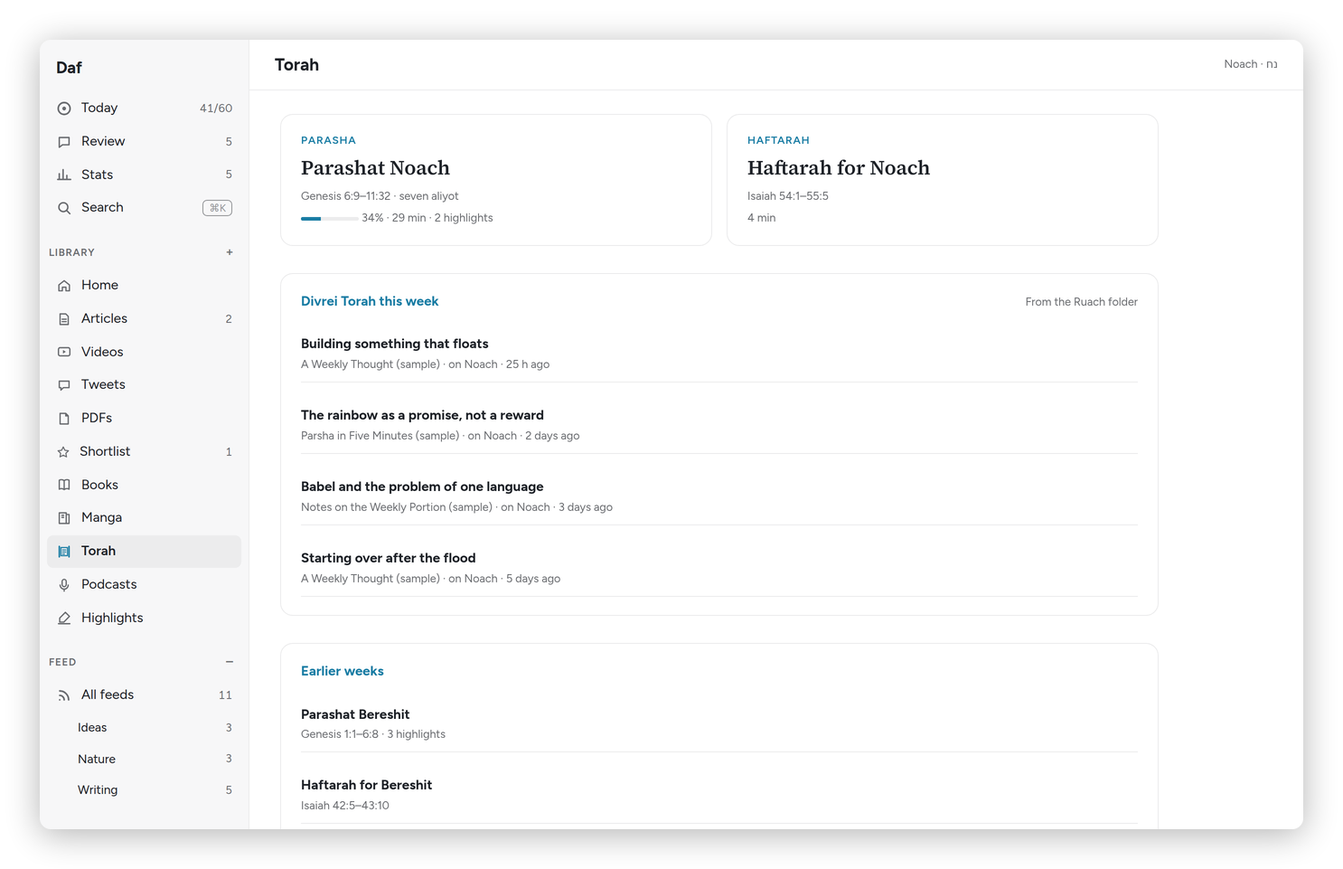
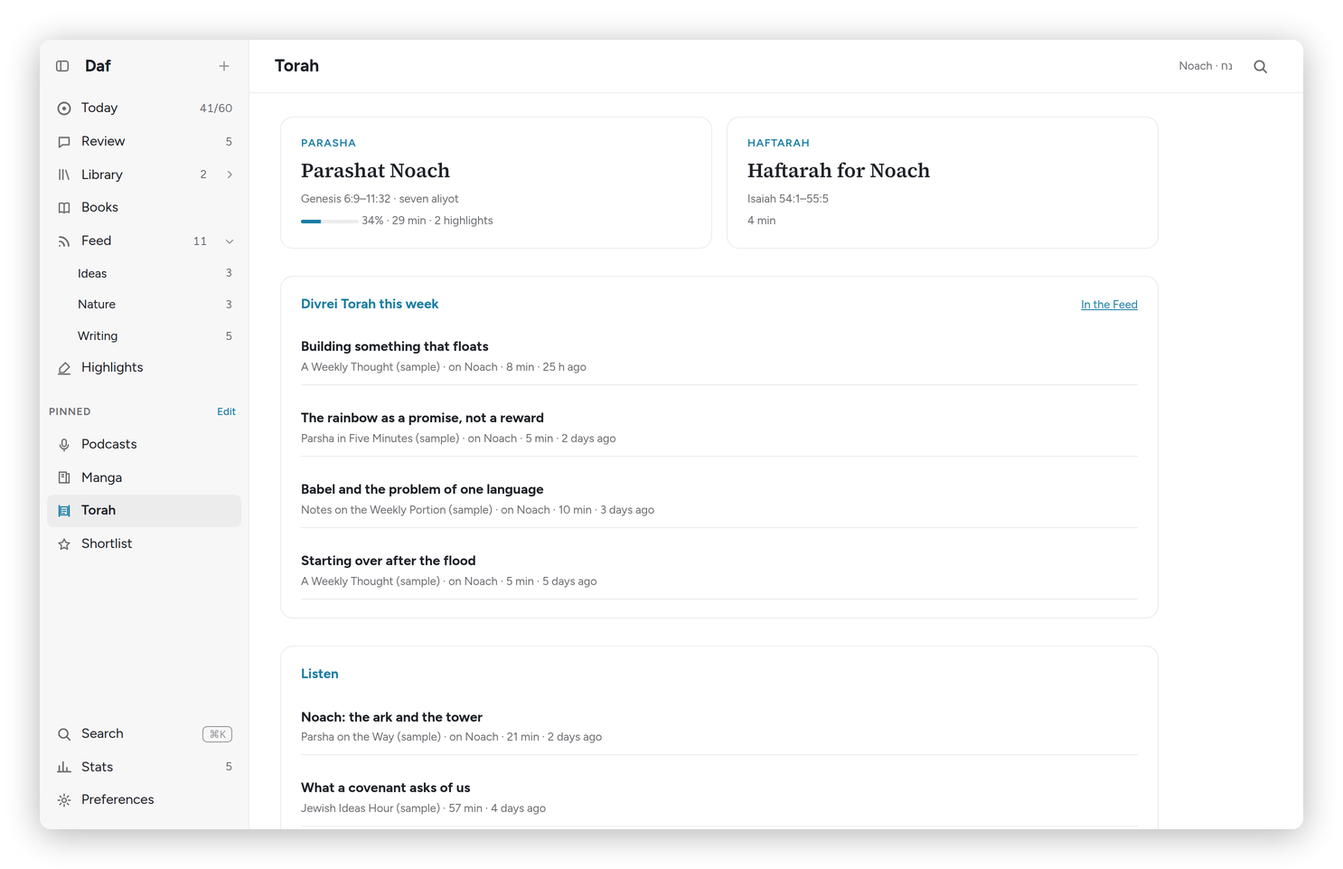
Torah: the week's divrei Torah come from a "Divrei Torah" folder of the Feed instead of Ruach, with a Listen group for its episodes
- torah.divrei reads the folder by when a post was published, not when Daf took it in, so a feed just
  followed doesn't count its whole month as this week. A post is on the parasha when its title or its
  address names it (rabbisacks.org/covenant-conversation/chayei-sarah/...). On the parasha first, a
  few from each source, then each source's newest other one.
- The page: Divrei Torah this week with In the Feed, and Listen for the episodes, which open in Daf's
  player. The caption "From the Ruach folder" is gone. The search finds them by author too.
- /api/torah: divrei, listen and folder; ruach stays as the old name for the Mac app until it's
  rebuilt with the new Pages.swift.
- daf feeds-add on a feed already followed moves it with its posts (subscribe alone left them behind),
  and --full turns on Always load the full article.
- The Torah guide says what's in the folder; OPERATIONS, the Mac README, the taste's sample data and
  the docs screenshot follow.

diff --git a/web/torah.js b/web/torah.js
@@ -9,12 +9,17 @@ function weekCard(d){
     '<span class="tiny mute">' + (d.progress ? C.bar(d.progress) + ' ' + Math.round(d.progress) + '% · ' : '') + mins(d.words) + (d.highlights ? ' · ' + d.highlights + ' highlight' + (d.highlights === 1 ? '' : 's') : '') + '</span></a>';
 }
 
-const ruachRow = (r, t) => '<a class="nrow tr" href="#read/' + encodeURIComponent(r.id) + '"' + (r.status === 'seen' ? ' data-seen' : '') + '><b' + (/[֐-׿]/.test(r.title || '') ? ' dir="rtl" lang="he"' : '') + '>' + esc(r.title || 'Untitled') + '</b><span class="mute tiny">' + esc(r.source || '') + (r.this_parasha ? ' · on ' + esc(t.parasha.name) : '') + ' · ' + ago(r.added) + '</span></a>';
+// A post or an episode from the Divrei Torah folder; an episode opens in Daf's player.
+const postRow = (r, t) => {
+  const len = r.kind === 'podcast' ? (r.duration ? Math.round(r.duration / 60) + ' min' : '') : (r.words >= 200 ? mins(r.words) : '');
+  return '<a class="nrow tr" href="#read/' + encodeURIComponent(r.id) + '"' + (r.status === 'seen' ? ' data-seen' : '') + '><b' + (/[֐-׿]/.test(r.title || '') ? ' dir="rtl" lang="he"' : '') + '>' + esc(r.title || 'Untitled') + '</b>' +
+    '<span class="mute tiny">' + [esc(r.source || ''), r.this_parasha && t.parasha ? 'on ' + esc(t.parasha.name) : '', len, ago(r.when || r.added)].filter(Boolean).join(' · ') + '</span></a>';
+};
 const essayRow = e => '<button class="nrow tr essay" data-essay="' + esc(e.path) + '"><b>' + esc(e.title) + '</b><span class="mute tiny">' + esc(e.author || '') + (e.words ? ' · ' + mins(e.words) : '') + (e.progress ? ' · ' + Math.round(e.progress) + '% read' : '') + (e.highlights ? ' · ' + e.highlights + ' highlight' + (e.highlights === 1 ? '' : 's') : '') + '</span></button>';
 const earlierRow = d => '<a class="nrow tr" href="#read/' + encodeURIComponent(d.id) + '"><b>' + esc(d.title) + '</b><span class="mute tiny">' + esc(d.summary || '') + (d.highlights ? ' · ' + d.highlights + ' highlights' : '') + '</span></a>';
 
-// The search in the bar: the week's readings, the divrei Torah, the essays and the earlier weeks, by
-// their titles and what's under them, on the page.
+// The search in the bar: the week's readings, the divrei Torah and episodes, the essays and the earlier
+// weeks, by their titles and what's under them, on the page.
 let shelf = null;
 C.views.torah = async () => {
   $('#main').innerHTML = '<div class="top"><h1>Torah</h1><span class="spacer"></span><span class="mute tiny" id="tsub"></span>' + C.Find.html('torah', 'Search Torah', draw) + '</div><div class="page" id="tpage"><span class="mute">Loading…</span></div>';
@@ -26,22 +31,25 @@ function draw(){
   const t0 = shelf, page = $('#tpage'); if (!t0 || !page) return;
   const q = C.Find.q('torah'), m = C.Find.match;
   if (q) {
-    const t = Object.assign({}, t0, { week: t0.week.filter(d => m(q, d.title, d.summary, d.author)), ruach: t0.ruach.filter(r => m(q, r.title, r.source)),
+    const t = Object.assign({}, t0, { week: t0.week.filter(d => m(q, d.title, d.summary, d.author)), divrei: (t0.divrei || []).filter(r => m(q, r.title, r.source, r.author)),
+      listen: (t0.listen || []).filter(r => m(q, r.title, r.source, r.author)),
       essays: (t0.essays || []).filter(e => m(q, e.title, e.author, e.series)), earlier: t0.earlier.filter(d => m(q, d.title, d.summary)) });
     page.innerHTML = (t.week.length ? '<div class="tweek">' + t.week.map(weekCard).join('') + '</div>' : '') +
-      (t.ruach.length ? '<section class="card"><div class="cardh"><h2>Divrei Torah this week</h2></div>' + t.ruach.map(r => ruachRow(r, t)).join('') + '</section>' : '') +
+      (t.divrei.length ? '<section class="card"><div class="cardh"><h2>Divrei Torah this week</h2></div>' + t.divrei.map(r => postRow(r, t)).join('') + '</section>' : '') +
+      (t.listen.length ? '<section class="card"><h2>Listen</h2>' + t.listen.map(r => postRow(r, t)).join('') + '</section>' : '') +
       (t.essays.length ? '<section class="card"><div class="cardh"><h2>From your vault</h2></div>' + t.essays.map(essayRow).join('') + '</section>' : '') +
       (t.earlier.length ? '<section class="card"><h2>Earlier weeks</h2>' + t.earlier.map(earlierRow).join('') + '</section>' : '') +
-      (t.week.length + t.ruach.length + t.essays.length + t.earlier.length ? '' : C.Find.none());
+      (t.week.length + t.divrei.length + t.listen.length + t.essays.length + t.earlier.length ? '' : C.Find.none());
     return;
   }
   const t = t0;
   let h = '';
   h += t.week.length ? '<div class="tweek">' + t.week.map(weekCard).join('') + '</div>'
     : '<section class="card"><h2>This week’s reading isn’t here yet</h2><p class="mute" style="margin:0">Sefaria didn’t answer. Daf tries again on the next sync.</p></section>';
-  h += '<section class="card"><div class="cardh"><h2>Divrei Torah this week</h2><span class="mute tiny">From the Ruach folder</span></div>' +
-    (t.ruach.length ? t.ruach.map(r => ruachRow(r, t)).join('')
-      : '<p class="mute" style="margin:0">Nothing new in Ruach this week.</p>') + '</section>';
+  const divrei = t.divrei || [], listen = t.listen || [];
+  h += '<section class="card"><div class="cardh"><h2>Divrei Torah this week</h2>' + (t.folder ? '<a class="tiny" href="#feed/' + encodeURIComponent(t.folder) + '">In the Feed</a>' : '') + '</div>' +
+    (divrei.length ? divrei.map(r => postRow(r, t)).join('') : '<p class="mute" style="margin:0">Nothing new this week.</p>') + '</section>';
+  if (listen.length) h += '<section class="card"><h2>Listen</h2>' + listen.map(r => postRow(r, t)).join('') + '</section>';
   if (t.essays && t.essays.length) h += '<section class="card"><div class="cardh"><h2>From your vault</h2><span class="mute tiny">' + esc(t.essays[0].series || '') + ' on ' + esc(t.parasha ? t.parasha.name : '') + '</span></div>' +
     t.essays.map(essayRow).join('') +
     '<span class="mute tiny">Opens in Daf, so the time counts. Highlights go into the same note.</span></section>';

diff --git a/mac-native/Sources/DafNative/Pages.swift b/mac-native/Sources/DafNative/Pages.swift
@@ -224,7 +224,7 @@ struct SourcesView: View {
     }
 }
 
-/// Torah: this week's parasha and haftarah, the readings to open, Ruach, and earlier weeks.
+/// Torah: this week's parasha and haftarah, the readings to open, the Divrei Torah folder's posts and episodes, and earlier weeks.
 struct TorahList: View {
     @Environment(AppModel.self) private var model
 
@@ -247,12 +247,12 @@ struct TorahList: View {
                         rows("This week", t.a("week"))
                     }
                     Heading("Divrei Torah this week")
-                    if t.a("ruach").isEmpty {
-                        Text("Nothing new in Ruach this week.").font(.callout).foregroundStyle(.secondary)
+                    if t.a("divrei").isEmpty {
+                        Text("Nothing new this week.").font(.callout).foregroundStyle(.secondary)
                     } else {
-                        Text("From the Ruach folder").font(.caption).foregroundStyle(.secondary)
-                        SelectableRows(items: t.a("ruach").map(Item.init))
+                        SelectableRows(items: t.a("divrei").map(Item.init))
                     }
+                    rows("Listen", t.a("listen"))
                     let essays = AppModel.essays(t)
                     if !essays.isEmpty {
                         Heading("From your vault")

diff --git a/mac-native/Sources/DafNative/Model.swift b/mac-native/Sources/DafNative/Model.swift
@@ -366,7 +366,7 @@ final class AppModel {
             case .torah:
                 let t = try await API.shared.json("/api/torah")
                 torah = t
-                items = (t.a("week") + t.a("ruach") + Self.essays(t) + t.a("earlier")).map(Item.init)
+                items = (t.a("week") + t.a("divrei") + t.a("listen") + Self.essays(t) + t.a("earlier")).map(Item.init)
             case .feed(let cat):
                 if sources == nil { await loadSources() }
                 items = try await docs("feed", tab: feedTab, arg: cat, sort: sortFeed, filter: listFilter.dict)

diff --git a/taste/app/demo.js b/taste/app/demo.js
@@ -944,7 +944,7 @@ on('GET', '/api/feed/sources', () => {
 on('GET', '/api/torah', () => {
   if (!SEED.torah) throw err(404, NOT_HERE);
   const t = clone(SEED.torah), now = nowSec();
-  t.ruach.forEach(r => { r.added = now - (r.days || 0) * 86400 - 3600; r.status = 'unseen'; });
+  t.divrei.concat(t.listen || []).forEach(r => { r.when = r.added = now - (r.days || 0) * 86400 - 3600; r.status = 'unseen'; });
   return Object.assign({ essays: [] }, t);
 });
 on('GET', '/api/hardcover/book/:id', p => {

diff --git a/daf/torah.py b/daf/torah.py
@@ -3,7 +3,8 @@
 Each reading is a doc (where_ 'torah', kind 'torah') whose blocks are verses: Hebrew
 (nikud kept, cantillation dropped) beside English, with aliyah headings. Highlights and
 notes work as on any doc and go to Reference/torah in the vault. Time spent reading here
-counts like an article. The Ruach feed folder in FreshRSS supplies the week's divrei Torah.
+counts like an article. The Feed's "Divrei Torah" folder supplies the week's divrei Torah, the
+posts on this parasha first, and its podcast episodes make a Listen group of their own.
 """
 import hashlib
 import html
@@ -21,6 +22,8 @@ log = logging.getLogger(__name__)
 API = "https://www.sefaria.org/api"
 ALIYOT = ["Rishon", "Sheni", "Shlishi", "Revi'i", "Chamishi", "Shishi", "Shvi'i", "Maftir"]
 CANTILLATION = re.compile("[֑-ֽ֯׀׃׆]")
+FOLDER = "Divrei Torah"                  # the Feed folder the Torah page reads
+PER_SOURCE = {"read": 3, "listen": 2}   # on this parasha; of the rest, each source's newest
 
 
 def _get(url, timeout=20):
@@ -187,6 +190,44 @@ def mentions(title, name, he):
     return False
 
 
+def on_parasha(post, par):
+    """Does a post name this week's parasha, in its title or its address (rabbisacks.org/…/chayei-sarah/…)?"""
+    if not par or not par.get("name"):
+        return False
+    if mentions(post.get("title"), par["name"], par.get("he")):
+        return True
+    path = urllib.parse.urlparse(post.get("url") or "").path
+    return mentions(re.sub(r"[/_.]+", " ", path), par["name"], None)
+
+
+def divrei(conn, par, days=10):
+    """The week's posts and episodes from the Divrei Torah folder: (to read, to listen to). Those on
+    this parasha come first, a few from each source, then each source's newest other one, so a site
+    that posts every day can't fill the week. The Feed has the rest."""
+    since = int(time.time()) - days * 86400
+    rows = [dict(r) for r in conn.execute(           # an episode's length, once Daf knows it (episodes.py)
+        "SELECT d.id, d.kind, d.title, d.author, d.source, d.url, d.published, d.added, d.status, d.words, "
+        "COALESCE(d.duration, g.duration) AS duration FROM docs d LEFT JOIN gp_episodes g ON g.url = d.enclosure "
+        "WHERE d.where_ = 'feed' AND d.category = ? AND d.status != 'deleted' AND COALESCE(d.published, d.added) > ? "
+        "ORDER BY COALESCE(d.published, d.added) DESC LIMIT 300", (FOLDER, since))]
+    for r in rows:
+        r["this_parasha"] = on_parasha(r, par)
+        r["when"] = r["published"] or r["added"]
+    # a batch posted at once (Chabad's week) goes longest first
+    rows.sort(key=lambda r: (not r["this_parasha"], -(r["when"] or 0), -(r["words"] or 0)))
+    out, per, other = {"read": [], "listen": []}, {}, set()
+    for r in rows:
+        group = "listen" if r["kind"] == "podcast" else "read"
+        key = (group, r["source"])
+        if per.get(key, 0) >= PER_SOURCE[group] or (not r["this_parasha"] and key in other):
+            continue
+        per[key] = per.get(key, 0) + 1
+        if not r["this_parasha"]:
+            other.add(key)
+        out[group].append(r)
+    return out["read"][:18], out["listen"][:6]
+
+
 def _front(text):
     m = re.match(r"^---\n(.*?)\n---\n", text, re.S)
     out = {}
@@ -263,13 +304,7 @@ def shelf(conn):
                 "progress": r["progress"], "highlights": hl, "category": r["category"]}
     week = [card(r) for i in ids for r in conn.execute("SELECT * FROM docs WHERE id = ?", (i,))]
     par = cal.get("Parashat Hashavua") or {}
-    since = int(time.time()) - 10 * 86400
-    ruach = [dict(r) for r in conn.execute(
-        "SELECT id, title, author, source, added, status, words FROM docs WHERE where_ = 'feed' AND category = 'Ruach' AND status != 'deleted' AND added > ? "
-        "ORDER BY added DESC LIMIT 40", (since,))]
-    for r in ruach:
-        r["this_parasha"] = bool(par) and mentions(r["title"], par.get("name"), par.get("he"))
-    ruach.sort(key=lambda r: (not r["this_parasha"], -(r["added"] or 0)))
+    read, listen = divrei(conn, par)
     earlier = [card(r) for r in conn.execute(
         "SELECT * FROM docs WHERE where_ = 'torah' AND id LIKE 'sef:%%' AND id NOT IN (%s) ORDER BY published DESC LIMIT 30" % ",".join("?" * len(ids)), ids)] if ids else \
         [card(r) for r in conn.execute("SELECT * FROM docs WHERE where_ = 'torah' AND id LIKE 'sef:%' ORDER BY published DESC LIMIT 30")]
@@ -279,4 +314,5 @@ def shelf(conn):
         log.warning("torah essays: %s", e)
         mine = []
     return {"parasha": cal.get("Parashat Hashavua"), "haftarah": cal.get("Haftarah"), "week": week, "essays": mine,
-            "ruach": ruach[:12], "earlier": earlier}
+            "divrei": read, "listen": listen, "folder": FOLDER, "earlier": earlier,
+            "ruach": read}          # the old name, for a Mac app built before it read "divrei"

diff --git a/daf/cli.py b/daf/cli.py
@@ -17,7 +17,8 @@
     daf jobs                   transcripts and clips waiting or done
     daf vault-backfill [--dry-run DIR]   rewrite Daf's article notes in the vault the current way
     daf feeds-list [--json]    the feeds the Feed follows
-    daf feeds-add URL [--folder F] [--title T]   follow a feed (the Substack sync, the security watch)
+    daf feeds-add URL [--folder F] [--title T] [--full]   follow a feed (the Substack sync, the security watch),
+                               or move one already followed to F, its posts with it
     daf feeds-remove URL ...   unfollow them
 """
 import argparse
@@ -341,7 +342,9 @@ def cmd_feeds_list(a):
 
 
 def cmd_feeds_add(a):
-    """Follow a feed in a folder (the Substack sync, the security watch); --title names it."""
+    """Follow a feed in a folder (the Substack sync, the security watch); --title names it, --full has
+    Daf load each post's whole article. A feed already followed moves to the folder, and so do its posts
+    (reader.edit_feed), so the Feed and the Torah page find them there."""
     from . import reader
     from .sources import feedsrc
     src = feedsrc.get()
@@ -352,9 +355,10 @@ def cmd_feeds_add(a):
             print(f"Couldn't follow {a.url}: {e}", file=sys.stderr)
             return 1
         f = next((x for x in src.subscriptions(conn=conn) if x["url"] == a.url or x["title"] == title), None)
-        if a.title and f and a.title != f["title"]:
-            reader.edit_feed(conn, f["id"], a.title)
-            title = a.title
+        rename = a.title if a.title and f and a.title != f["title"] else None
+        if f and (rename or a.folder or a.full):
+            reader.edit_feed(conn, f["id"], rename, a.folder or None, full=True if a.full else None)
+            title = rename or title
     print(f"Following {title}" + (f" in {a.folder}" if a.folder else ""))
     return 0
 
@@ -413,7 +417,8 @@ def main(argv=None):
     x = sub.add_parser("karakeep-import", help="Daf takes the Library over from Karakeep, once"); x.add_argument("--again", action="store_true"); x.set_defaults(f=cmd_karakeep_import)
     x = sub.add_parser("feeds-import", help="Daf reads the feeds itself from now on, FreshRSS's list brought over"); x.add_argument("--again", action="store_true"); x.set_defaults(f=cmd_feeds_import)
     x = sub.add_parser("feeds-list", help="the feeds the Feed follows"); x.add_argument("--json", action="store_true"); x.set_defaults(f=cmd_feeds_list)
-    x = sub.add_parser("feeds-add", help="follow a feed"); x.add_argument("url"); x.add_argument("--folder", default=""); x.add_argument("--title")
+    x = sub.add_parser("feeds-add", help="follow a feed, or move one to a folder"); x.add_argument("url"); x.add_argument("--folder", default=""); x.add_argument("--title")
+    x.add_argument("--full", action="store_true", help="always load the whole article")
     x.set_defaults(f=cmd_feeds_add)
     x = sub.add_parser("feeds-remove", help="unfollow feeds"); x.add_argument("urls", nargs="+"); x.set_defaults(f=cmd_feeds_remove)
     x = sub.add_parser("podcasts-import", help="subscriptions and listening from Nextcloud's GPodder Sync app"); x.add_argument("--user", default="admin"); x.set_defaults(f=cmd_podcasts_import)

diff --git a/mac-native/README.md b/mac-native/README.md
@@ -24,7 +24,7 @@ It talks to Daf the same way the page does, through Daf's own API, so nothing ch
 - **The book reader.** EPUBs open natively, the way Apple Books sets a book on the Mac: a chapter at a time as pages, two side by side when the window is wide, turned with the arrow keys, Space, a swipe or a click at either edge, right to left for a Hebrew book. The contents, my highlights and my bookmarks sit in the sidebar (⌥⌘T); the Aa button has the theme (Original, Paper, Quiet, Night, or with the Mac), the typeface, the size, the line spacing and justified text. **H** highlights the selection, **B** bookmarks the page, and right-click a highlight for its note, its colour or to remove it. A footnote opens where its number is. ⌘F searches the whole book. **P** reads it aloud from the page I'm on (**L**, or right-click → Read Aloud from Here, from a paragraph), turning the pages and going on into the next chapter. My Kindle highlights are on the pages too, found in this edition by their words, and listed in the sidebar under From the Kindle. Ask, in the sidebar or by right-clicking a passage, answers a question about the book with the pages I'm on as its context. My place, highlights and bookmarks are kept exactly as the page keeps them (the same CFIs), so the page's reader, this one and the Kindle agree; when the Kindle is further on, it says so and offers to go there. Reading time and pages count as on the page. The bottom line has the time left in the chapter and the book, the page and the percent. The More menu goes to the beginning, to the Kindle's page or to a percent, exports the highlights, downloads the file and forgets my place in Daf; the Info tab in the sidebar has the details, the series and the next one, and the vault note's path. The Aa panel also has the line width, the layout (pages, or one column to scroll) and "Just for this book". Near the end it offers the next in the series and Finished on Hardcover. The player has the voice and a sleep timer. Other formats (MOBI, AZW3, FB2, comics) open in Daf's own reader.
 - **Books.** The list has the nightstand, Want to Read from Hardcover (the ones Daf has), what I opened lately and the whole library, with a search by title or author. A book's own page: its cover, where I am, the nightstand (a fourth asks which one steps off), its shelves, my reading of it (time, sittings, pace, when I'd finish), a note on the book, its audiobook bookmarks, how often its highlights come back in the review, Hardcover (link it, its status and rating, Finished with the date) and its highlights, with Review These and Export. Read opens it in a window of its own. Books opens onto my shelves in the sidebar; right-click for New Shelf…, Rename… and Delete the Shelf (a Hardcover list stays, as on the page).
 - **Manga.** A series' volumes as covers. A volume opens in a reader with everything the page's has: right to left, left to right, vertical, or as one long strip (with or without gaps); one page or two, pairs shifted by one, wide pages split; fit to the screen, the width or the height, or at its own size; borders cropped; the background and the filters. Each series keeps its own way of reading, in Daf, so the page and the phone read it the same. The trackpad's swipe, the wheel, the arrow keys, Space or the tap zones turn; pinch or double-click zooms. The bars (M, or a click in the middle) have the page slider, the volumes on either side and the quick settings; T shows every page, S the settings, A scrolls by itself, F is full screen. The start and end cards lead to the volume before and the next one.
-- **Torah, Podcasts and Sources.** This week's parasha and haftarah with the readings, which open in the reader with each verse in Hebrew and English (or just one: the toolbar's switch, or Article › Torah), the week's divrei Torah from Ruach, and the essays in my vault on this parasha (Reference/torah/), which open in the reader too, their time counted and their highlights going back into the same note; what I've listened to lately and what I follow; whether each place Daf reads from is answering, with Sync Now.
+- **Torah, Podcasts and Sources.** This week's parasha and haftarah with the readings, which open in the reader with each verse in Hebrew and English (or just one: the toolbar's switch, or Article › Torah), the week's divrei Torah and episodes from the Feed's Divrei Torah folder, and the essays in my vault on this parasha (Reference/torah/), which open in the reader too, their time counted and their highlights going back into the same note; what I've listened to lately and what I follow; whether each place Daf reads from is answering, with Sync Now.
 - **Videos** open with YouTube's private-mode player above the transcript, which follows along as it plays (Follow Along), with the line being said tinted; a timestamp plays from there, and Clip 30s (C) highlights the last 30 seconds, each line with its time. With no transcript yet: YouTube's captions, or a transcription on the server. Podcast episodes open in the reader with their notes.
 - **PDFs** open in Apple's own PDF view, with highlights as on the page: select words (or press H, or N for a note, or right-click) and they're kept with the page and its boxes, and in the text view too when the words are there; the text view's highlights are found on the page by their words. Right-click one for its note, colour, tags and the rest. − and + zoom. Time with it open counts as reading, and the page I'm on is the progress.
 - **Paper pages.** A photo of a page I marked in a paper book (File › Add a Photo of a Page…, File › Import from iPhone › Take Photo, or dropped on the list) goes to Daf, which reads its lines and the marks on them. I pick the book and the lines beside the photo, and each run of lines becomes a highlight in the book's note.

diff --git a/docs/OPERATIONS.md b/docs/OPERATIONS.md
@@ -130,7 +130,7 @@ Ezer (`.claude/scripts/signal-bot.py`, rules ahead of the router, no model call)
 - **Torah shelf** (`torah.py`, web `#torah`): Sefaria's calendar (diaspora, home time zone) gives the
   week's parasha with aliyot and the haftarah; each becomes a doc (`where_ = 'torah'`) of verse blocks,
   Hebrew (nikud, no cantillation) beside the JPS English. Both / עברית / English toggle in the reader.
-  The Ruach FreshRSS folder supplies the week's divrei Torah, those naming the parasha first.
+  The Feed's "Divrei Torah" folder supplies the week's divrei Torah and episodes, those naming the parasha first.
   Highlights go to `Reference/torah`, each with its verse.
 - **Lookup** (`lookup.py`): select one word → Define (Hebrew: Sefaria's BDB, Klein, Jastrow; English:
   Wiktionary; cached in kv). "In this sentence" and Translate (a Hebrew phrase) ask Claude, ~10 s.
@@ -620,7 +620,7 @@ Two read-only audit agents (server and web) went through Daf; these are the fixe
 - **Smaller:** `vault_search_exclude` is read from settings again; clipping file names stay under
   200 bytes; a bad date to `/api/paper` is a 400, not a 500 that would block the offline queue; bulk
   status checks the status once and lists per-document failures; the books goal and Hardcover use the
-  home time zone; deleted docs leave the home shelf, the Torah page's Ruach list and the caption jobs;
+  home time zone; deleted docs leave the home shelf, the Torah page's divrei Torah and the caption jobs;
   the model's errors reach the page in Daf's words (`ai.plain_error`).
 - **Web:** the offline queue reads the stored queue afresh for each send and removes only what it
   sent (new writes made during a flush were lost), and sets aside one Daf keeps refusing after five
@@ -838,3 +838,9 @@ A design round toward Apple Books' calm and fewer icons (the "Daf, focused" canv
 - **Books** (app.js `findBooks`): `GET /api/books/search?q=` (every folded word in the title, author, Calibre series (`ebooks.all_series`) or a shelf's name; non-private, no manga volumes; whole-title matches first, then last read; 150 at most, `count` is all). The page's sections are hidden under `#bfound` and come back as they were. "Your library" lost its own search box.
 - **Highlights**: the old `#hlq` field is the component; `S.hlq` follows it. **On the page** (the rest): Manga (series; a series' volumes), Torah, Recovery (every chapter of all three parts at once), a shelf, Stats (its book lists and On this day; the charts step aside), Paper pages (the 5 s poll redraws the list only), Sources.
 - **Offline**: sw.js passes any `?q=` through to the network, so a search is never kept or used as a list's `_any` copy; the pages use `api` rather than `swr` for them. Podcasts was left alone (its own rebuild).
+
+## The Divrei Torah folder (2026-11-05)
+
+- **torah.divrei** reads the Feed folder `torah.FOLDER` ("Divrei Torah"; it was Ruach, which is spirituality, not Torah) for the last 10 days by `COALESCE(published, added)`, so a feed just followed doesn't count its whole month as this week. `on_parasha` checks the title and the address's path (rabbisacks.org/covenant-conversation/chayei-sarah/…) with `mentions`. Order: on this parasha first, newest, longest (Chabad posts its week at one time). At most 3 per source on the parasha (2 per show for episodes) and each source's newest other post, 18 to read and 6 to listen to.
+- **/api/torah** has `divrei` (posts), `listen` (kind podcast; they open in the episode player), `folder`; `ruach` repeats `divrei` for the Mac app until it reads the new name.
+- **`daf feeds-add URL --folder F`** on a feed already followed moves it with its posts (reader.edit_feed; subscribe alone left the posts in the old folder), and `--full` turns on Always load the full article.

diff --git a/docs/torah.md b/docs/torah.md
@@ -12,13 +12,23 @@ The Torah shelf is the week's Torah reading in Daf: the parasha and the haftarah
 **Torah** in the sidebar opens the shelf, with the parasha's name at the top right.
 
 - **Parasha** and **Haftarah:** this week's readings from Sefaria's calendar (the diaspora schedule, in your home time zone), with the verses and the Shabbat they're read on.
-- **Divrei Torah this week:** the posts from the "Ruach" folder of my Feed, the ones that name this parasha first.
+- **Divrei Torah this week:** the posts from the "Divrei Torah" folder of my Feed, the ones on this parasha first, then the newest from each of the others. Each site gets a few at most, so one that posts every day can't fill the week, and **In the Feed** opens the whole folder.
+- **Listen:** the podcast episodes from the same folder, this parasha's first. They play in Daf like any episode, with the transcript under them.
 - **From your vault:** essays filed in the vault under this parasha, like Rabbi Sacks' Covenant & Conversation kept as a folder of essays for each parasha. They open in Daf, so the time counts, and highlights go back into the same note.
 - **Earlier weeks:** the parashiot from the weeks before, still there if you fell behind.
 
 On Friday, Today reminds you that Shabbat is coming and that the parasha is waiting here.
 
 The magnifying glass at the top searches everything on the shelf by its title and what's under it. Hebrew works without the vowels, so חיי finds חַיֵּי שָׂרָה.
+
+## The Divrei Torah folder
+
+It's an ordinary folder in the Feed, so a feed goes in or out the usual way, from the Sources sheet or with `daf feeds-add URL --folder "Divrei Torah"`. Daf knows a post is on this parasha when its title or its address names it, in English or in Hebrew. This is what I follow there:
+
+- Rabbi Sacks' **Covenant & Conversation**, the essays and the recordings of them.
+- **Chabad.org's** weekly Parshah: the Nutshell, the Parshah in Depth and the Chassidic Masters. Chabad sends a few lines of each and doesn't let Daf fetch the rest, so those open on chabad.org.
+- **The Lehrhaus**, **Torah Musings**, **Rav Kook Torah**, Aish's **Shabbat Shalom**, **TheTorah.com**, **Ohr Torah Stone** and **Hadar**. TheTorah.com and Ohr Torah Stone only send a summary, so they have **Always load the full article** on.
+- To listen to: **Pardes from Jerusalem**, Hadar's **Ta Shma**, **A Thought for the Week** from Torah in Motion, **18Forty** and **Judaism Unbound**.
 
 ## Reading the parasha
 
